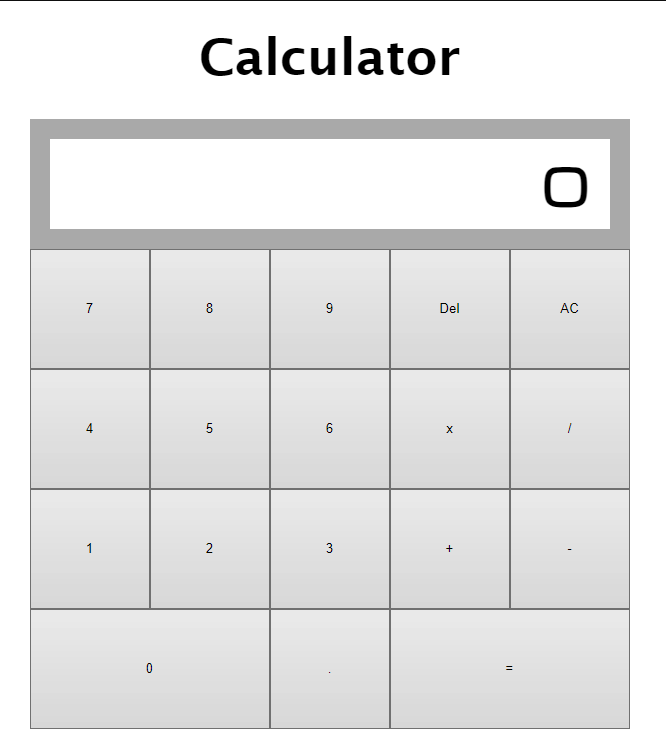
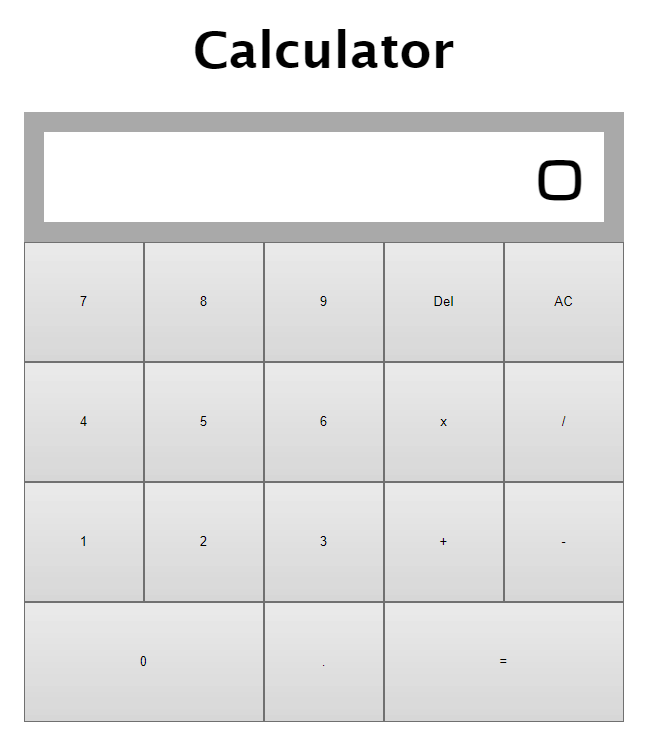
Add support for keyboard input

diff --git a/script.js b/script.js
@@ -33,34 +33,71 @@ for (let i = 0; i < allButtons.length; i++) {
 const numberBtns = document.querySelectorAll(".numbers button");
 const numberButtons = Array.from(numberBtns);
 
+// Listener function for zero button
+const zero = () => {
+    if (display.classList.contains("first")) {
+        // Changing the first value
+        valueZeroCheck(operation.first);
+    } else if (display.classList.contains("second")) {
+        // Changing the second value
+        valueZeroCheck(operation.second);
+    }
+}
+
+// Listener function for decimal button
+const decimal = () => {
+    if (operation.operator === null && display.classList.contains("first")) {
+        // Changing the first value
+        valueDecimalCheck(operation.first);
+    } else if (operation.operator !== null && display.classList.contains("second")) {
+        // Changing the second value
+        valueDecimalCheck(operation.second);
+    }
+}
+
+// Listener function for equal button
+const equals = () => {
+    if (operation.first.length !== 0 && operation.operator !== null && operation.second.length !== 0) {
+        // Only operates if there are two values and an operator
+        display.textContent = lengthCheck(operate(operation));
+        // Store previous operator incase user presses 'Del' after pressing '='
+        const prevOperator = operation.operator;
+        clear(operation);
+        // Sets the answer as the first value in next operation
+        operation.first = display.textContent.split("");
+        operation.operator = prevOperator;
+        display.classList.remove("first");
+        display.classList.add("second");
+    }
+}
+
+// Listener function for delete button
+const del = () => {
+    if (display.classList.contains("first")) {
+        // Changing the first value
+        deleteButton(operation.first);
+    } else if (display.classList.contains("second")) {
+        // Changing the second value
+        deleteButton(operation.second);
+    }
+}
+
 // Adds event listeners to each number based on which number it is
 for (let i = 0; i < numberButtons.length; i++) {
     if (numberButtons[i].classList.contains("zero-btn") && numberButtons[i].textContent === "0") {
         // If the number button pressed is zero
-        numberButtons[i].addEventListener("click", () => {
-            if (display.classList.contains("first")) {
-                // Changing the first value
-                valueZeroCheck(operation.first);
-            } else if (display.classList.contains("second")) {
-                // Changing the second value
-                valueZeroCheck(operation.second);
-            }
-        });
+        numberButtons[i].addEventListener("click", zero);
     } else if (numberButtons[i].classList.contains("decimal-btn") && numberButtons[i].textContent === ".") {
         // If the number button pressed is the decimal button
-        numberButtons[i].addEventListener("click", () => {
-            if (operation.operator === null && display.classList.contains("first")) {
-                // Changing the first value
-                valueDecimalCheck(operation.first);
-            } else if (operation.operator !== null && display.classList.contains("second")) {
-                // Changing the second value
-                valueDecimalCheck(operation.second);
-            }
-        });
+        numberButtons[i].addEventListener("click", decimal);
     } else {
         numberButtons[i].addEventListener("click", () => {
             if (operation.operator === null && display.classList.contains("first")) {
                 // Changing the first value
+                if (operation.first[0] === 0 && operation.first[1] !== ".") {
+                    // Removes 0 in front of number after user presses `Del` then a number
+                    operation.first.forEach(item => item === 0 ? operation.first.shift() : item);
+                }
                 operation.first.push(numberButtons[i].textContent);
                 display.textContent = lengthCheck(operation.first.join(""));
             } else if (operation.operator !== null && display.classList.contains("second")) {
@@ -84,20 +121,7 @@ const operatorButtons = Array.from(operatorBtns);
 for (let i = 0; i < operatorButtons.length; i++) {
     if (operatorButtons[i].textContent === "=") {
         // User presses `=`
-        operatorButtons[i].addEventListener("click", () => {
-            if (operation.first.length !== 0 && operation.operator !== null && operation.second.length !== 0) {
-                // Only operates if there are two values and an operator
-                display.textContent = lengthCheck(operate(operation));
-                // Store previous operator incase user presses 'Del' after pressing '='
-                const prevOperator = operation.operator;
-                clear(operation);
-                // Sets the answer as the first value in next operation
-                operation.first = display.textContent.split("");
-                operation.operator = prevOperator;
-                display.classList.remove("first");
-                display.classList.add("second");
-            }
-        })
+        operatorButtons[i].addEventListener("click", equals)
     } else if (operatorButtons[i].textContent === "AC") {
         // User presses `AC`
         operatorButtons[i].addEventListener("click", () => {
@@ -111,15 +135,7 @@ for (let i = 0; i < operatorButtons.length; i++) {
         });
     } else if (operatorButtons[i].textContent === "Del") {
         // User presses `Del`
-        operatorButtons[i].addEventListener("click", () => {
-            if (display.classList.contains("first")) {
-                // Changing the first value
-                deleteButton(operation.first);
-            } else if (display.classList.contains("second")) {
-                // Changing the second value
-                deleteButton(operation.second);
-            }
-        })
+        operatorButtons[i].addEventListener("click", del)
     } else { // The regular operators 'x', '/', '+', '-'
         operatorButtons[i].addEventListener("click", () => {
             if (operation.first.length === 0) {
@@ -208,8 +224,9 @@ function divide(a, b) {
     return round(lengthCheck(a / b));
 }
 
+// Rounds number to properly handle floats
 function round(num) {
-    return Math.round(num * 10**5) / 10 **5;
+    return Math.round(num * 10**10) / 10 **10;
 }
 
 // Performs the calculation
@@ -220,7 +237,7 @@ function operate(operation) {
         return add(first, second);
     } else if (operation.operator === "-") {
         return subtract(first, second);
-    } else if (operation.operator === "x") {
+    } else if (operation.operator === "x" || operation.operator === "*") {
         return multiply(first, second);
     } else if (operation.operator === "/") {
         return divide(first, second);
@@ -232,8 +249,12 @@ function lengthCheck(num) {
     const arr = String(num).split("");
     if (arr.length > 11) {
         if (num = arr.some(item => item === "e" ? true : false)) {
+            // If number is larger than 21 digits (scientific notation)
+            // Array starting from `e`
             const end = arr.slice(arr.indexOf("e"));
+            // Format num so it's got room for end
             num = arr.slice(0, 11 - end.length);
+            // Push each item in end to num
             end.map((item) => num.push(item));
             return num.join("");
         }
@@ -241,3 +262,84 @@ function lengthCheck(num) {
     }
     return num;
 }
+
+// Keyboard support
+window.addEventListener("keydown", (e) => {
+    // Prevents default behavior incase a button is in focus and user presses `Enter`
+    e.preventDefault();
+
+    const acceptedKeys = ["0", ".", "1", "2", "3", "4", "5", "6", "7", "8", "9", "=", 
+        "Enter", "Backspace", "+", "-", "/", "*"];
+
+    if (acceptedKeys.some(item => item === e.key ? true : false)) {
+        // Checks if the key pressed is accepted to play sound and perform animation
+        let pressedKey = Array.from(document.querySelectorAll("button")).find(item => item.textContent === e.key)
+        click.currentTime = 0;
+        click.play();
+        // Incase pressedKey is null or undefined due to the key pressed
+        if (e.key === "Backspace") {
+            pressedKey = document.querySelector(".del-btn");
+        } else if (e.key === "Enter") {
+            pressedKey = document.querySelector(".equal-btn");
+        } else if (e.key === "*") {
+            pressedKey = document.querySelector(".mult-btn");
+        }
+        pressedKey.classList.add("pressed");
+
+        // Event listener for when the key is released
+        window.addEventListener("keyup", (event) => {
+            pressedKey.classList.remove("pressed");
+        })
+    }
+
+    // Performs the correct action based on the key that was pressed much similar to event listeners above
+    if (e.key === "0") {
+        zero();
+    } else if (e.key === ".") {
+        decimal();
+    } else if (["1", "2", "3", "4", "5", "6", "7", "8", "9"].some(item => item === e.key ? true : false)) {
+        if (operation.operator === null && display.classList.contains("first")) {
+            // Changing the first value
+            if (operation.first[0] === 0 && operation.first[1] !== ".") {
+                // Removes 0 in front of number after user presses `Del` then a number
+                operation.first.forEach(item => item === 0 ? operation.first.shift() : item);
+            }
+            operation.first.push(e.key);
+            display.textContent = lengthCheck(operation.first.join(""));
+        } else if (operation.operator !== null && display.classList.contains("second")) {
+            // Changing the second value
+            if (operation.second[0] === 0 && operation.second[1] !== ".") {
+                // Removes 0 in front of number after user presses `Del` after an operator
+                operation.second.forEach(item => item === 0 ? operation.second.shift() : item);
+            }
+            operation.second.push(e.key);
+            display.textContent = lengthCheck(operation.second.join(""));
+        }
+    } else if (e.key === "=" || e.key === "Enter") {
+        equals();
+    } else if (e.key === "Backspace") {
+        del();
+    } else if (["+", "-", "/", "*"].some(item => item === e.key ? true : false)) {
+        if (operation.first.length === 0) {
+            // Sets the first value to be 0 if user immediately presses an operator
+            operation.first.push(0);
+            operation.operator = e.key;
+            display.classList.remove("first");
+            display.classList.add("second");
+        } else if (operation.second.length !== 0) {
+            // Performs operation if second value doesn't have length of 0
+            display.textContent = lengthCheck(operate(operation));
+            clear(operation);
+            operation.first = display.textContent.split("");
+            // Sets up for user to enter second value
+            operation.operator = e.key;
+            display.classList.remove("first");
+            display.classList.add("second");
+        } else {
+            // Otherwise just setup for user to enter second value
+            operation.operator = e.key;
+            display.classList.remove("first");
+            display.classList.add("second");
+        }
+    }
+});

diff --git a/index.html b/index.html
@@ -28,7 +28,7 @@
                 <div class="operators">
                     <button class="del-btn">Del</button>
                     <button class="clear-btn">AC</button>
-                    <button>x</button>
+                    <button class="mult-btn">x</button>
                     <button>/</button>
                     <button>+</button>
                     <button>-</button>

diff --git a/style.css b/style.css
@@ -100,6 +100,7 @@ button {
 .buttons {
     flex-direction: row;
     padding: 20px;
+    justify-content: space-between;
 }
 
 /* Make numbers and operators containers take up a 3:2 ratio of space */
@@ -115,6 +116,7 @@ button {
     flex: 2;
     flex-wrap: wrap;
     gap: 5px;
+    justify-content: flex-end;
 }
 
 /* Makes button look like it was pressed */

diff --git a/README.md b/README.md
@@ -3,20 +3,20 @@
 This project uses many different concepts which include:
 - Flexbox
 - DOM manipulation
-- Event listeners
+- Event listeners for mouse clicks and keyboard
 - Objects and array methods
 
 Through this project I have been able to put to practice my knowledge of event listeners in creating a dynamically updating calculator. As well as make the buttons visually change upon being pressed on and playing a sound effect to go along.  
 
 Click [here](https://pakmangames.github.io/calculator) to try it out for yourself.  
 
-Here's a preview of what it looks like:
+Here's a preview of what it looks like:  
 ![Preview](./images/final.png)
 
-This is how it looked in earlier stages:
+This is how it looked in earlier stages:  
 ![Initial](./images/initial.png)
 
-And this is what the initial concept brainstorm looked like:
+And this is what the initial concept brainstorm looked like:  
 ![Concept](./images/concept.png)
 
 This is the link of where I learned to give the title a [linear gradient](https://stackoverflow.com/questions/8384751/css-text-gradient) colour.
